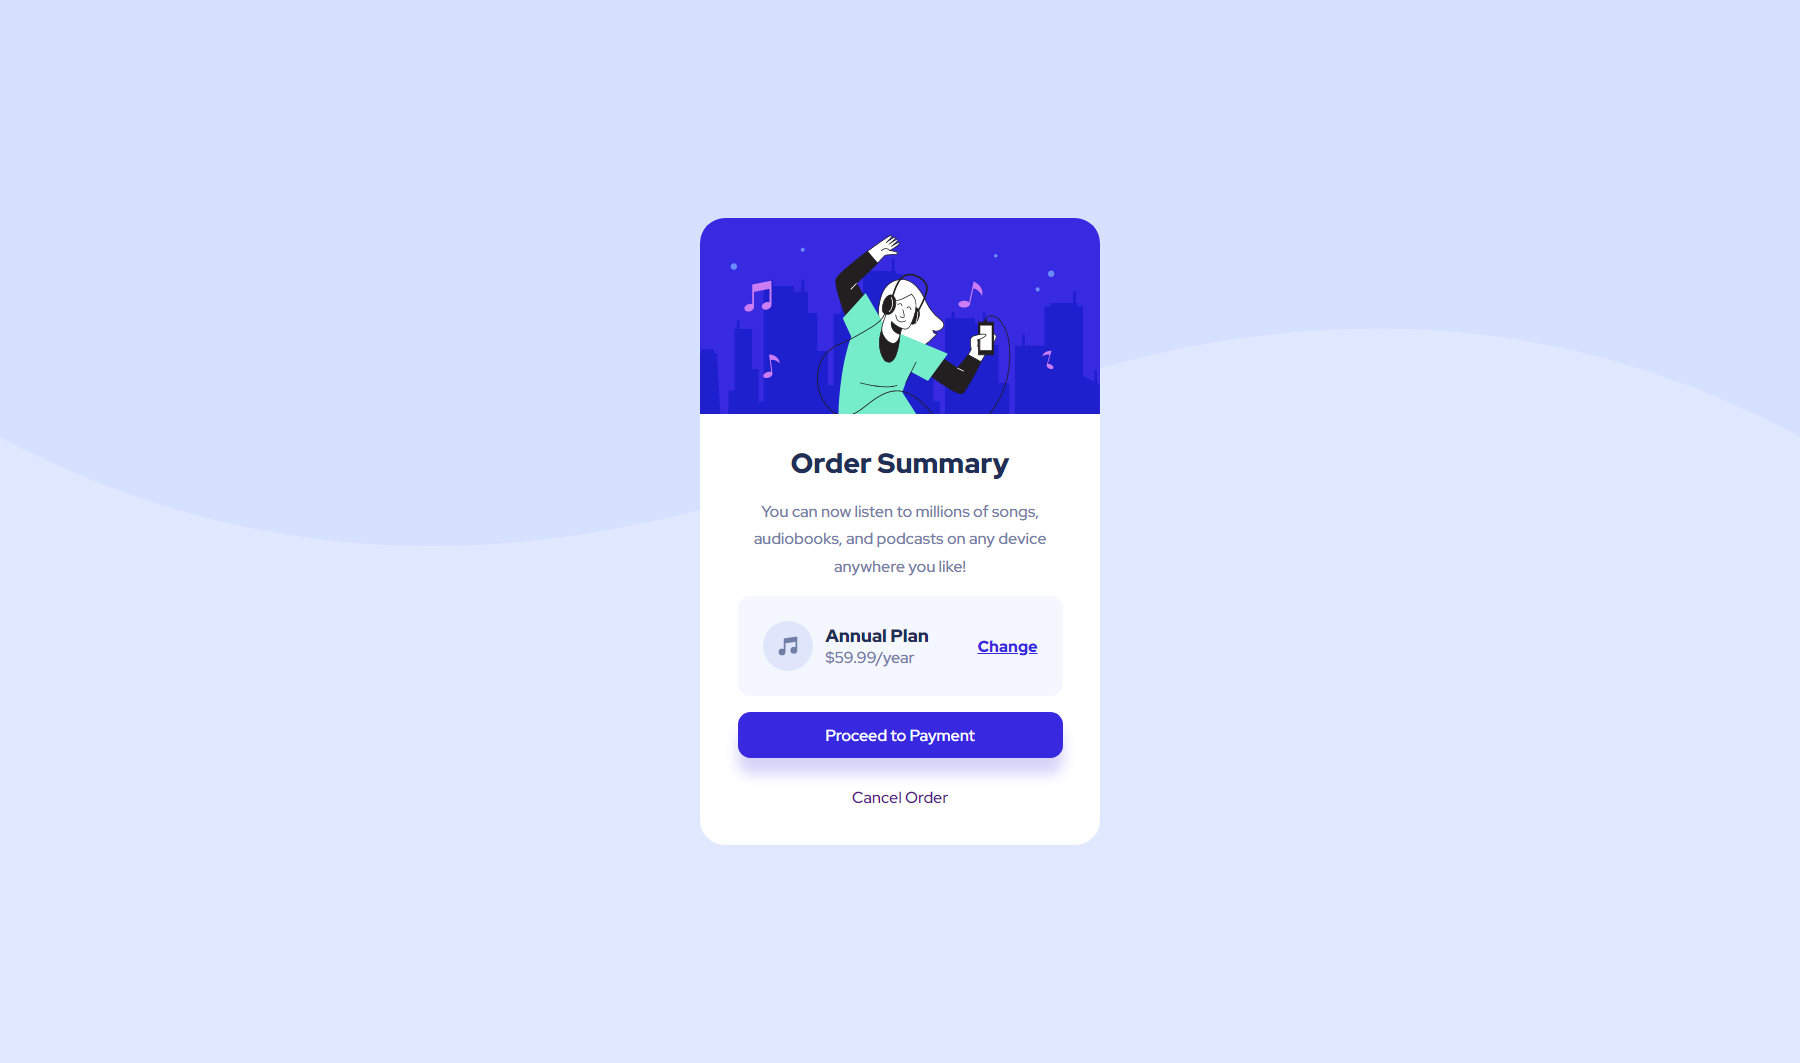
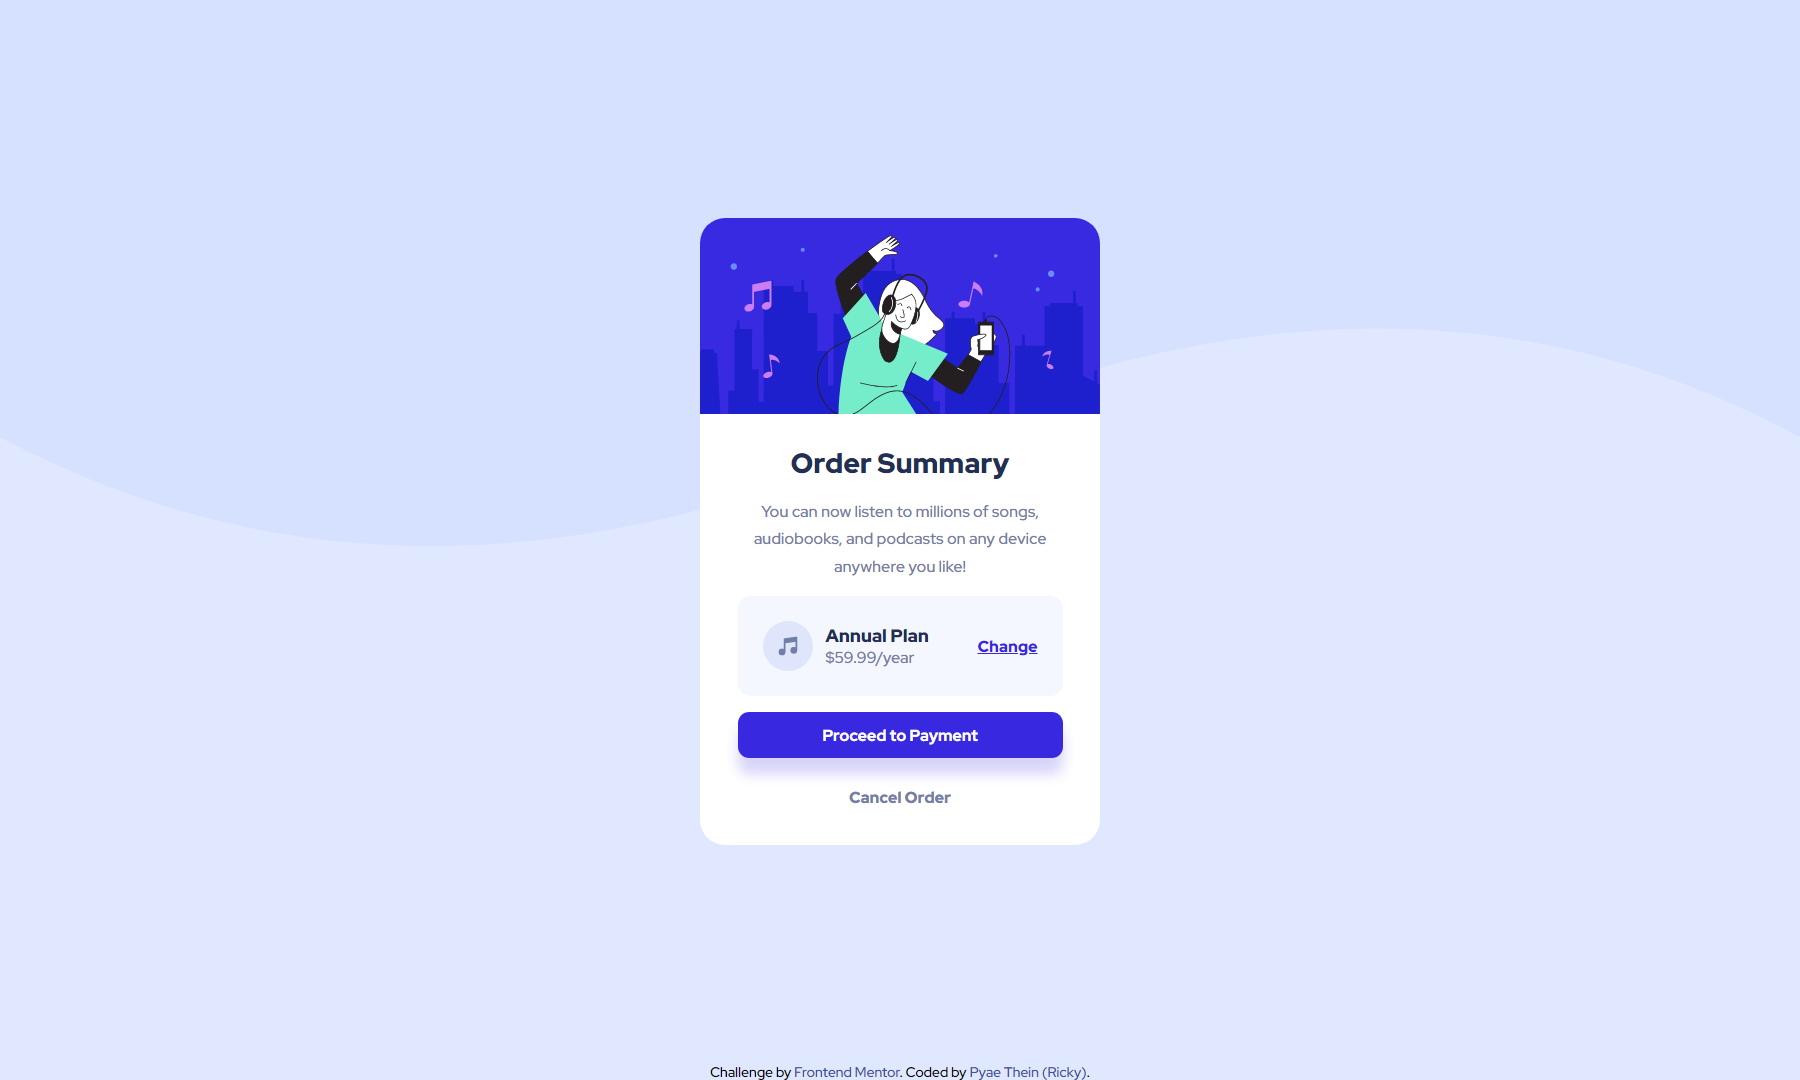
Add files via upload

diff --git a/index.html b/index.html
@@ -7,7 +7,7 @@
   <link rel="icon" type="image/png" sizes="32x32" href="./images/favicon-32x32.png">
   <link rel="stylesheet" href="css/style.css">
   
-  <title>Frontend Mentor | Order summary card</title>
+  <title>Pyae Thein (Ricky) | Order summary card</title>
 
   <!-- Feel free to remove these styles or customise in your own stylesheet 👍 -->
   <style>
@@ -16,40 +16,46 @@
   </style>
 </head>
 <body>
-  <div class="card">
-    <div class="container">
-
-      <img src="images/illustration-hero.svg" alt="" class="banner">
-      
-      <div class="summary">
-
-        <h2 class="title">Order Summary</h2>
-        <p class="desc">You can now listen to millions of songs, audiobooks, and podcasts on any 
-          device anywhere you like!</p>
-        
-        <div class="plan">
-
-          <img src="images/icon-music.svg" alt="" class="icon">
+  <main>
+    <section>
+      <div class="card">
+        <div class="container">
+    
+          <img src="images/illustration-hero.svg" alt="" class="banner">
           
-          <div class="plan-info">          
-            <h4 class="plan-title">Annual Plan</h4>
-            <span class="price">$59.99/year</span>
+          <div class="summary">
+    
+            <h1 class="title">Order Summary</h1>
+            <p class="desc">You can now listen to millions of songs, audiobooks, and podcasts on any 
+              device anywhere you like!</p>
+            
+            <div class="plan">
+    
+              <img src="images/icon-music.svg" alt="music-icon" class="icon">
+              
+              <div class="plan-info">          
+                <h2 class="plan-title">Annual Plan</h2>
+                <span class="price">$59.99/year</span>
+              </div>
+    
+              <a href="#" class="change">Change</a>
+    
+            </div>
+    
+            <a href="#" class="payment">Proceed to Payment</a>
+    
+            <a href="" class="cancel">Cancel Order</a>
           </div>
-
-          <a href="#" class="change">Change</a>
-
         </div>
-
-        <a href="#" class="payment">Proceed to Payment</a>
-
-        <a href="" class="cancel">Cancel Order</a>
       </div>
-    </div>
-  </div>
+    </section>
+  </main>
 
-  <div class="attribution">
-    Challenge by <a href="https://www.frontendmentor.io?ref=challenge" target="_blank">Frontend Mentor</a>. 
-    Coded by <a href="#">Pyae Thein (Ricky)</a>.
-  </div>
+  <footer>
+    <div class="attribution">
+      Challenge by <a href="https://www.frontendmentor.io?ref=challenge" target="_blank">Frontend Mentor</a>. 
+      Coded by <a href="#">Pyae Thein (Ricky)</a>.
+    </div>
+  </footer>
 </body>
 </html>

diff --git a/css/style.css b/css/style.css
@@ -87,16 +87,32 @@ a{
     color: var(--bright-blue);
     font-weight: 900;
     text-decoration: underline;
+    transition: 0.3s;
+}
+.change:hover{
+    opacity: 70%;
+    text-decoration: none;
 }
 .payment{
     background-color: var(--bright-blue);
-    border-radius: 10px;
+    border-radius: 9px;
     padding: 10px;
     color: #fff;
+    font-weight: 700;
     box-shadow: 0 13px 10px hsla(245, 75%, 52%, 0.2);
+    transition: 0.3s;
+}
+.payment:hover{
+    opacity: 80%;
 }
 .cancel{
     padding-top: 10px;
+    font-weight: 900;
+    color: var(--desaturated-blue);
+    transition: 0.3s;
+}
+.cancel:hover{
+    color: var(--dark-blue);
 }
 
 
